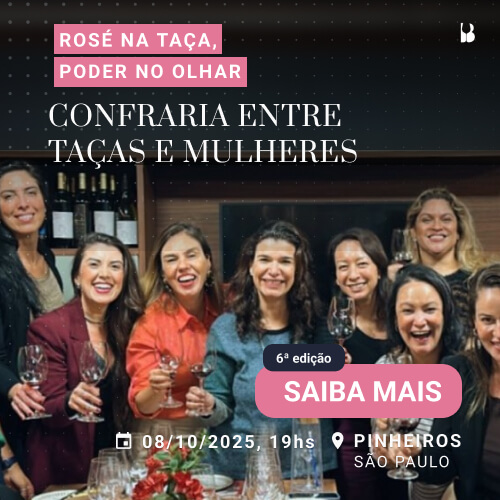
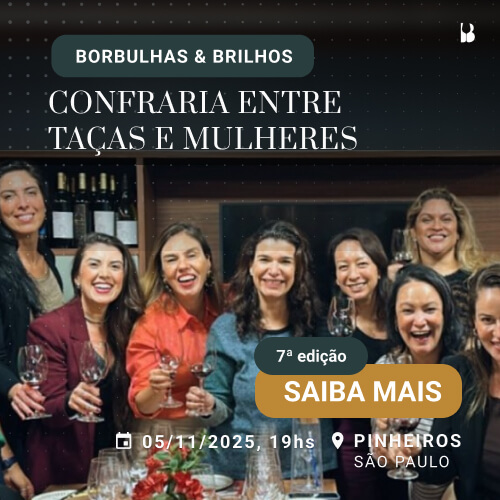
change carrousel image

diff --git a/src/lib/components/ui/Carrousel.svelte b/src/lib/components/ui/Carrousel.svelte
@@ -27,7 +27,7 @@
 				<li class="glide__slide w-full">
 					<a
 						href={localizeHref(
-							'/produto/6a-edicao-da-confraria-entre-tacas-e-mulheres-rose-na-taca-poder-no-olhar/'
+							'/produto/7a-edicao-confraria-entre-tacas-e-mulheres-borbulhas-brilhos/'
 						)}
 						class="not-hover-effect"
 					>
